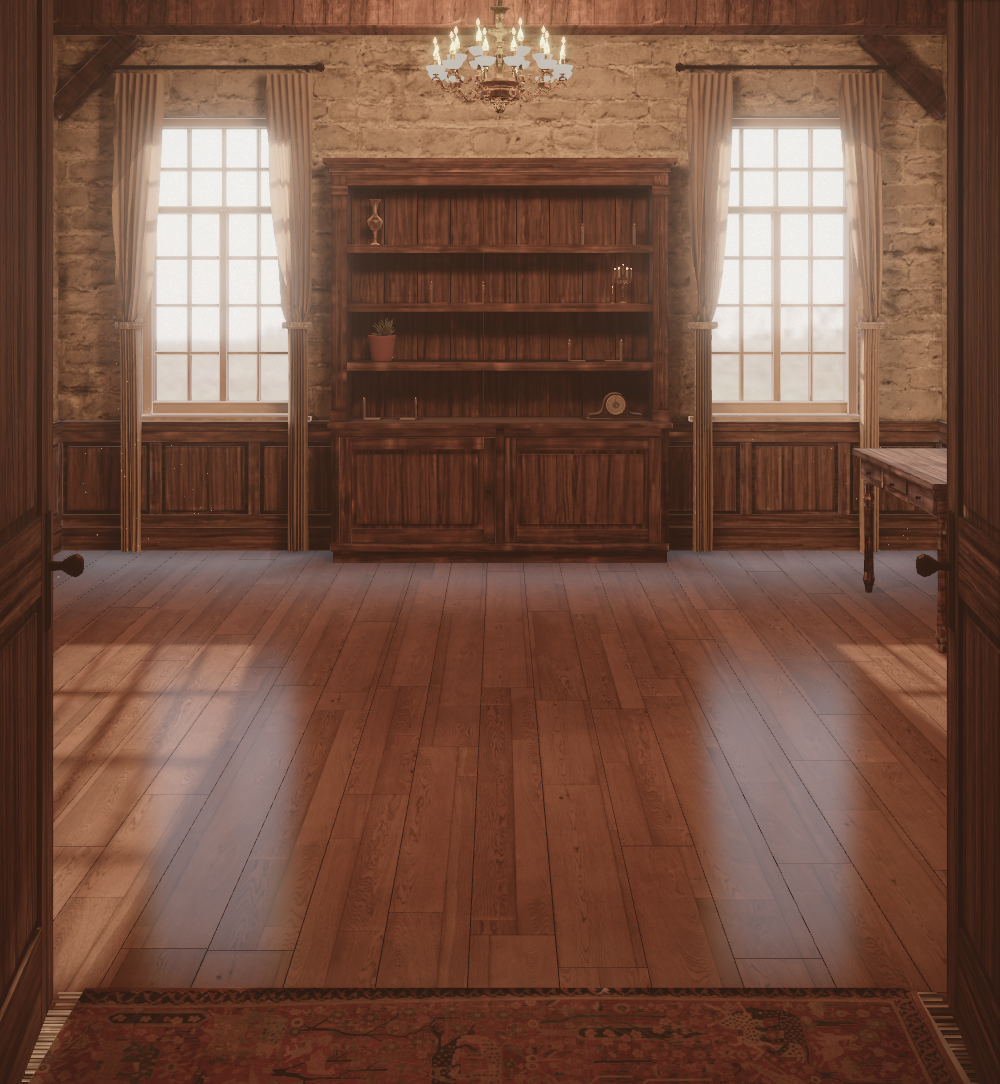
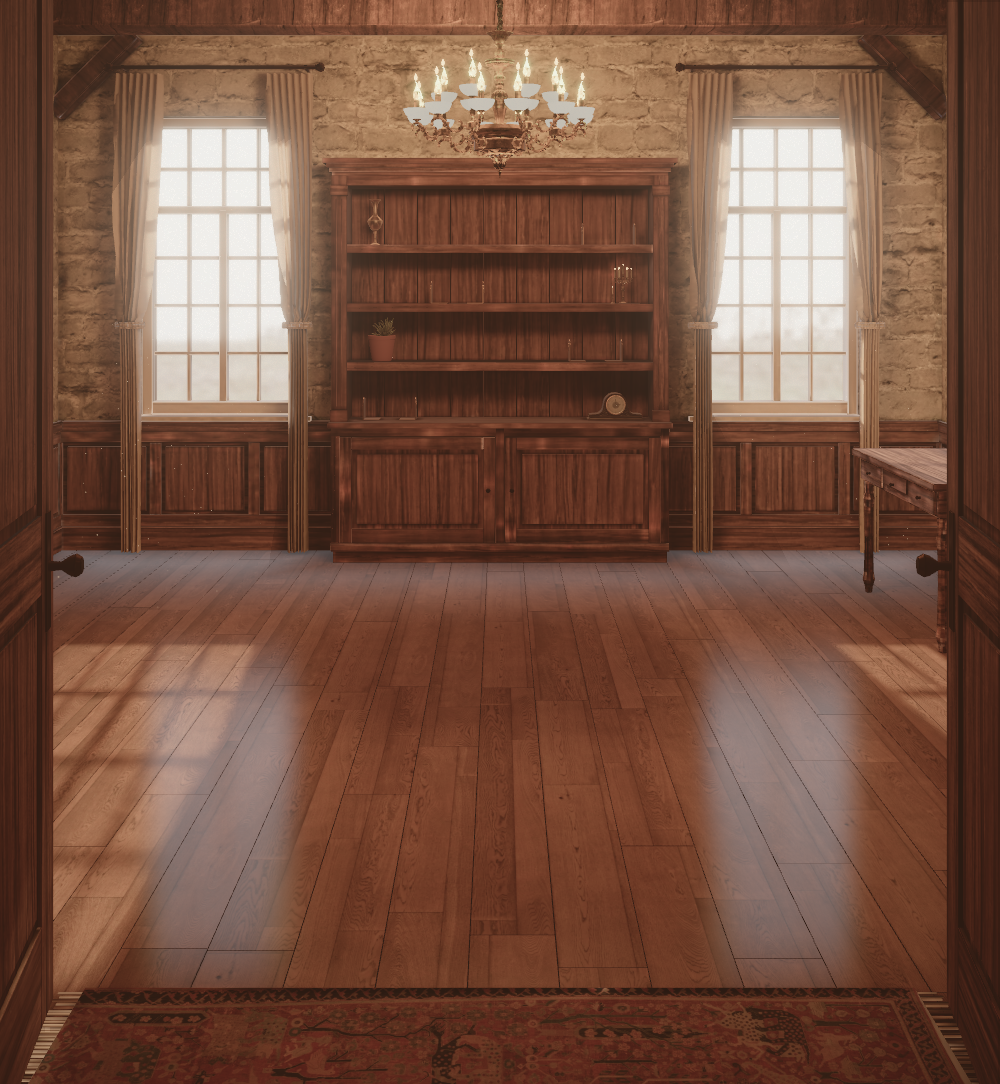
look dev S10: madeira âmbar, anti-magenta, lustre mais baixo

diff --git a/scripts/prepare-textures.ts b/scripts/prepare-textures.ts
@@ -166,15 +166,15 @@ async function main() {
   mkdirSync(OUT, { recursive: true })
 
   // Floor: wide varnished planks, warmed toward floor base #7A4E32.
-  await pbr('floor_wood', 'floor', { mean: '#7A5A40', saturation: 0.42, contrast: 1.15 }, { roughness: 0.32, spread: 0.7 })
+  await pbr('floor_wood', 'floor', { mean: '#7E5C3E', saturation: 0.42, contrast: 1.15 }, { roughness: 0.32, spread: 0.7 })
   // Stone: light limestone/sandstone #A89A84–#C8BBA2, slightly warm.
   await pbr('wall_stone', 'stone', { mean: '#A8A08E', saturation: 0.4 }, { disp: true, roughness: 0.85 })
   // Bookcase: dark mahogany, 25% less saturated than the source.
-  await pbr('bookcase_wood', 'bookcase', { mean: '#5A4232', saturation: 0.25 }, { roughness: 0.42 })
+  await pbr('bookcase_wood', 'bookcase', { mean: '#6B4A32', saturation: 0.25, contrast: 0.8 }, { roughness: 0.42 })
   // Wainscot + door: same wood, one tone lighter (direção de arte: mesma família).
-  await pbr('bookcase_wood', 'wainscot', { mean: '#66503C', saturation: 0.25 }, { roughness: 0.45 })
+  await pbr('bookcase_wood', 'wainscot', { mean: '#725238', saturation: 0.25, contrast: 0.85 }, { roughness: 0.45 })
   // Desk: same family, between the two.
-  await pbr('bookcase_wood', 'desk', { mean: '#5E4836', saturation: 0.3 }, { roughness: 0.4 })
+  await pbr('bookcase_wood', 'desk', { mean: '#6A4B35', saturation: 0.3 }, { roughness: 0.4 })
   // Beams: rough grey wood tinted to dark brown.
   await pbr('beam_wood', 'beam', { mean: '#46322A', saturation: 0.45, contrast: 1.1 }, { roughness: 0.78 })
   // Ceiling: warm plaster, never pure white.

diff --git a/src/scene/RoomExtras.tsx b/src/scene/RoomExtras.tsx
@@ -46,7 +46,7 @@ export function WindowGlass({ meshes, envMap }: { meshes: Mesh[]; envMap: Textur
 /** The chandelier's candle bulbs (Chandelier_03 glass): lit, warm emitters instead of sky-reflecting glass. */
 export function CandleBulbs({ root }: { root: Object3D }) {
   useLayoutEffect(() => {
-    const mat = new MeshBasicMaterial({ color: new Color('#E8C9A0').multiplyScalar(1.1) })
+    const mat = new MeshBasicMaterial({ color: new Color('#C99A62').multiplyScalar(0.75) })
     root.traverse((o) => {
       const m = o as Mesh
       if (m.isMesh && /^Chandelier_03_glass/i.test(matName(m))) m.material = mat

diff --git a/src/scene/ShelfProps.tsx b/src/scene/ShelfProps.tsx
@@ -19,9 +19,9 @@ export function ShelfProps() {
           mat.emissiveIntensity = 6
           mat.toneMapped = false
         }
-        mat.envMapIntensity = /brass/i.test(mat.name) ? 0.35 : 0.6
+        mat.envMapIntensity = /brass/i.test(mat.name) ? 0.9 : 0.6
         // aged brass is satin, not mirror: the env holds the hot windows
-        if (/brass/i.test(mat.name)) mat.roughness = 1.1
+        if (/brass/i.test(mat.name)) mat.roughness = 0.9
       }
     })
   }, [scene, quality])

diff --git a/src/scene/Grade.tsx b/src/scene/Grade.tsx
@@ -7,7 +7,7 @@ import { Color, Uniform, Vector3 } from 'three'
  * stay warm, but the frame is not "orange flat" (direção de arte: o quente vem da luz).
  */
 class WhiteBalanceEffect extends Effect {
-  constructor({ gains = new Vector3(0.86, 1.0, 1.26) } = {}) {
+  constructor({ gains = new Vector3(0.85, 1.04, 1.22) } = {}) {
     super(
       'WhiteBalance',
       /* glsl */ `

diff --git a/docs/decisoes.md b/docs/decisoes.md
@@ -184,3 +184,9 @@ Formato de cada entrada:
 - Escolha: madeiras com saturação 0,25 e médias #5A4232 (estante), #66503C (lambri), #7A5A40 (piso); céu das janelas âmbar e estourado (tint 1,4/1,0/0,6 × 4,2); feixes mais fortes; `nodes.N0.position.z` 5,35 → 4,95.
 - Como reverter: `scripts/prepare-textures.ts`, `src/scene/Sky.tsx`, `config/room.json`.
 - Precisa do usuário? não (decidido).
+
+## 2026-10-15 — Look dev S10: madeira mais âmbar, anti-magenta, lustre mais baixo
+- Contexto: `art-reviewer` (S9: 4/4/4/4/3) — dominante rosado, veio da estante contrastado, lustre pequeno/alto, latão sem leitura.
+- Escolha: médias de madeira com matiz ~26° (#6B4A32 estante, #725238 lambri, #7E5C3E piso) e contraste do veio −15 a −20%; balanço de branco com +4% de verde; `chandelier.bottomY` 2,35 → 2,1; latão dos props mais reflexivo.
+- Como reverter: `scripts/prepare-textures.ts`, `src/scene/Grade.tsx`, `config/room.json`, `src/scene/ShelfProps.tsx`.
+- Precisa do usuário? não.

diff --git a/docs/look-dev/iteracoes.md b/docs/look-dev/iteracoes.md
@@ -60,3 +60,7 @@ Cada entrada: data/hora, o que mudou, notas por critério (art-reviewer), diverg
 
 ### S9 — 2026-10-15 (draft; usuário escolheu "seguir o revisor")
 - Madeiras com saturação 0,25 (estante #5A4232, lambri #66503C, piso #7A5A40); céu das janelas âmbar estourado; feixes mais fortes; N0 0,4 m à frente (z=4,95): as folhas com maçanetas enquadram as laterais e o tapete fica no pé do quadro, como na referência.
+- **art-reviewer (S9):** 4 · 4 · 4 · 4 · 3 — "iterar"; com 3 ajustes pequenos (matiz âmbar, contraste do veio, latão/lustre) pode ir ao usuário como candidata.
+
+### S10 — 2026-10-15 (draft → final)
+- Madeira mais âmbar e menos contrastada, balanço de branco anti-magenta, lustre 0,25 m mais baixo (maior no quadro), latão dos props mais reflexivo, cúpulas do lustre em vidro âmbar escuro.
